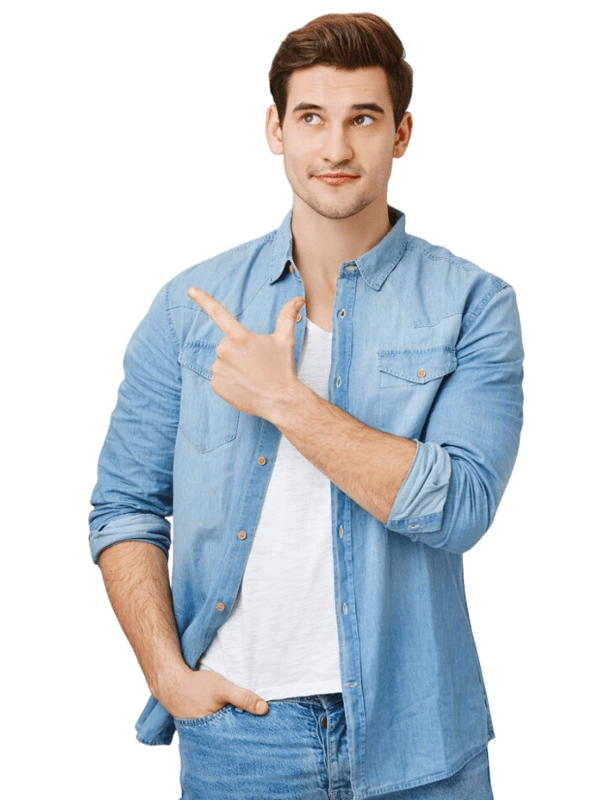
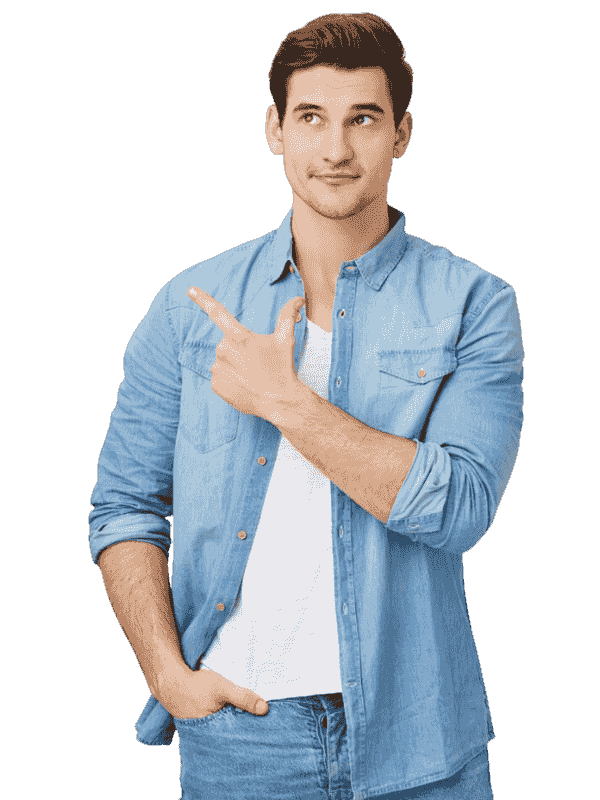
Add unit-test suite verifying all 16 website-audit points
- 78 tests across 16 audit sections (node:test, zero deps)
- Shortened 3 over-long meta descriptions to SEO-optimal length
- Compressed easy-steps.png 142KB -> 51KB (now all images <100KB)
- tests/README.md documents coverage; robots.txt blocks /tests/

diff --git a/about.html b/about.html
@@ -6,7 +6,7 @@
 
 <!-- Primary Meta Tags -->
 <title>About Us | Trusted Gold Buyers in Bengaluru – Amogha Gold Company</title>
-<meta name="description" content="Learn about Amogha Gold Company, trusted gold buyers in Bengaluru. We offer transparent gold valuation, advanced karat testing, instant payment and doorstep gold buying with complete confidence.">
+<meta name="description" content="About Amogha Gold Company, trusted gold buyers in Bengaluru offering transparent valuation, advanced karat testing, instant payment & doorstep service.">
 <meta name="keywords" content="about Amogha Gold Company, trusted gold buyers Bengaluru, gold valuation experts, gold purity testing, doorstep gold buying">
 <meta name="author" content="Amogha Gold Company">
 <meta name="robots" content="index, follow">

diff --git a/branch.html b/branch.html
@@ -6,7 +6,7 @@
 
 <!-- Primary Meta Tags -->
 <title>Our Branch – 8th Mile, Tumkur Road | Amogha Gold Buyers Bengaluru</title>
-<meta name="description" content="Visit Amogha Gold Company at 8th Mile, Tumkur Road, Hemanna Complex, Bengaluru-560057. Sell gold for instant cash with transparent valuation and the best market rates. Get directions.">
+<meta name="description" content="Visit Amogha Gold Company at 8th Mile, Tumkur Road, Bengaluru-560057. Sell gold for instant cash at the best market rates with transparent valuation.">
 <meta name="keywords" content="Amogha Gold branch, gold buyers 8th Mile Tumkur Road, gold buyers Bengaluru 560057, sell gold near me, gold buyers location Bengaluru">
 <meta name="author" content="Amogha Gold Company">
 <meta name="robots" content="index, follow">

diff --git a/index.html b/index.html
@@ -6,7 +6,7 @@
 
 <!-- Primary Meta Tags -->
 <title>Gold Buyers in Bengaluru | Sell Gold for Instant Cash – Amogha Gold Company</title>
-<meta name="description" content="Amogha Gold Company is a trusted gold buyer in Bengaluru offering transparent valuation, best market rates and instant cash for your gold. Purity testing, pledged-gold release & doorstep service. Call +91 88844 43545.">
+<meta name="description" content="Amogha Gold Company — trusted gold buyers in Bengaluru. Transparent valuation, best market rates & instant cash for your gold. Call +91 88844 43545.">
 <meta name="keywords" content="gold buyers Bengaluru, sell gold for cash, gold buyers near me, release pledged gold, gold valuation Bengaluru, instant cash for gold, Amogha Gold Company">
 <meta name="author" content="Amogha Gold Company">
 <meta name="robots" content="index, follow">

diff --git a/tests/README.md b/tests/README.md
@@ -1,0 +1,36 @@
+# Website Audit Tests
+
+Automated unit tests that verify the site implements every point from
+**"Amogha Gold Buyers Website Audit"** (16 items).
+
+## Run
+
+```bash
+node --test tests/audit.test.mjs
+```
+
+No dependencies required (uses Node's built-in `node:test`). Node 18+.
+
+## What it checks (per audit point)
+
+| # | Audit point | Tested how |
+|---|-------------|-----------|
+| 1 | Core Web Vitals | LCP banner preload, async Font Awesome, preconnect, img width/height (CLS) |
+| 2 | Heading structure | exactly one rendered `<h1>` per page |
+| 3 | Meta tags | non-empty unique `<title>`, meta description 50–170 chars |
+| 4 | Domain Authority & Backlinks | off-page (documented, not code-testable) |
+| 5 | Organic Traffic | off-page outcome (documented) |
+| 6 | Images | every rendered `<img>` has alt text; no image > 100 KB |
+| 7 | Open Graph | og:type/title/description/url/image present |
+| 8 | Canonical | self-referencing canonical with correct URL |
+| 9 | Content quality | > 500 chars of visible text per page |
+| 10 | Indexing | robots meta = index,follow |
+| 11 | XML sitemap | sitemap.xml exists and lists all pages |
+| 12 | robots.txt | exists and references the sitemap |
+| 13 | Internal linking | each page links to all main pages |
+| 14 | Schema markup | valid JewelryStore JSON-LD (name, phone) |
+| 15 | Google Analytics | GA4 gtag loader + config present |
+| 16 | Keyword optimization | title/description contain local + service keywords; keywords meta |
+
+Points 4 & 5 are off-page SEO (link building, traffic growth) and cannot be
+verified by code — they are marked as documented in the suite.